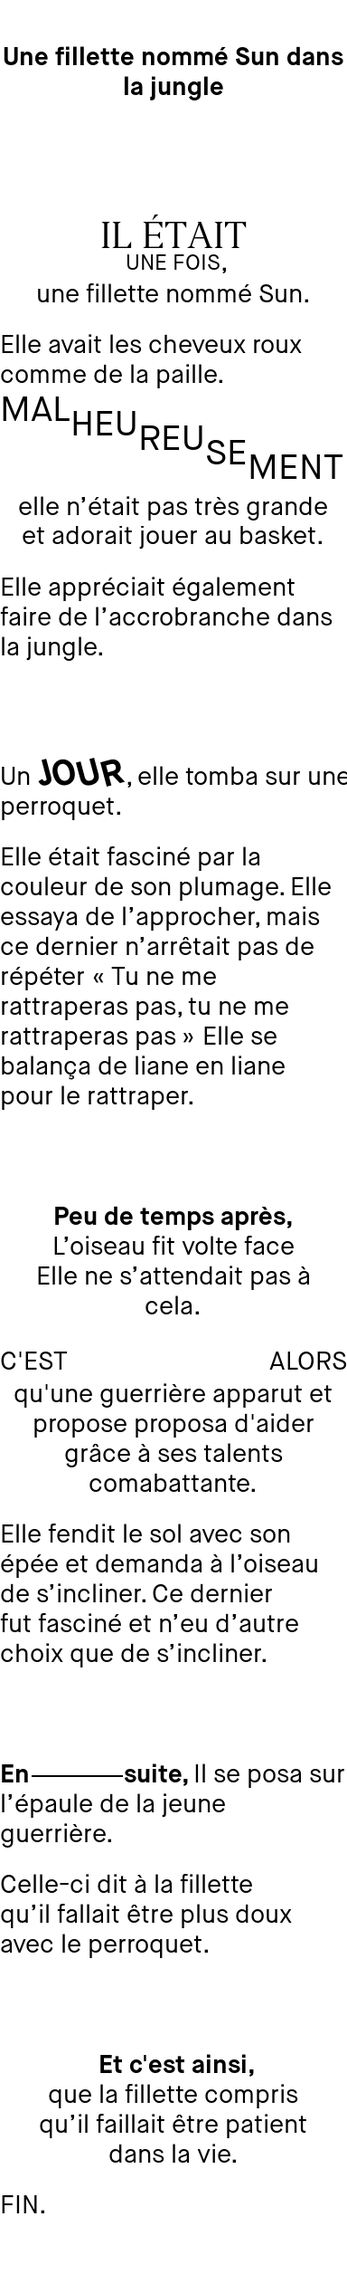
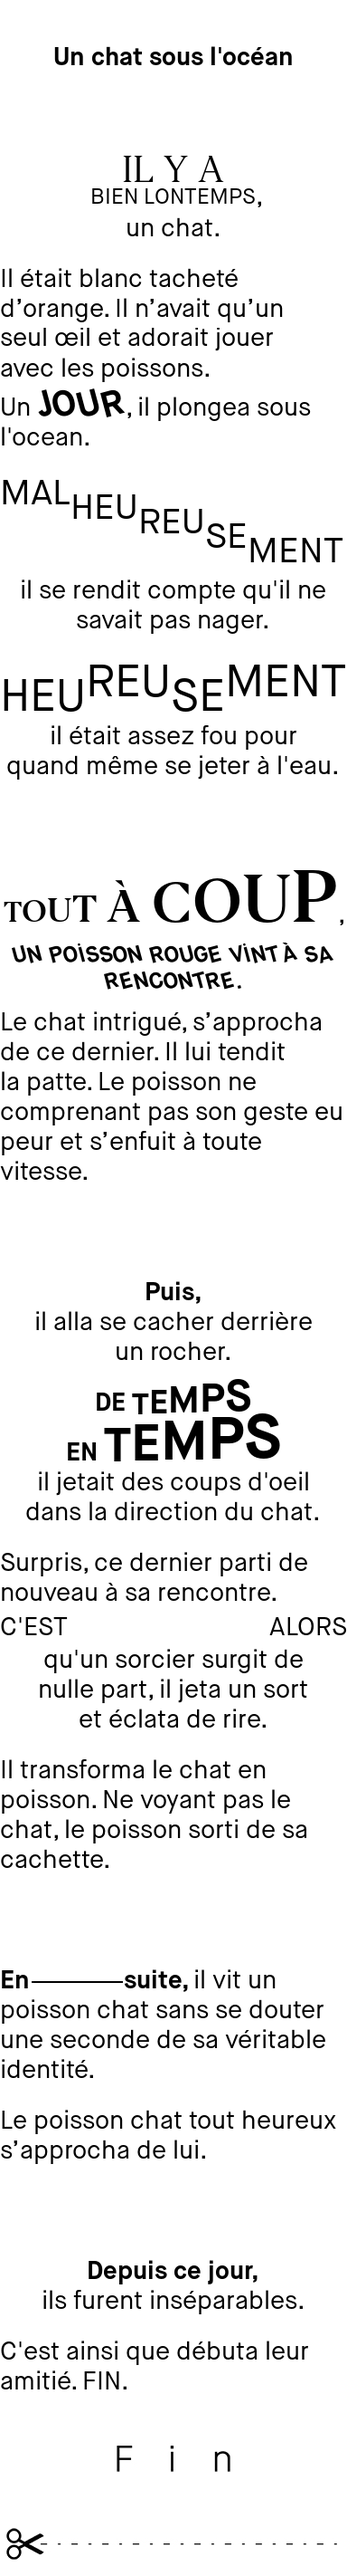
feat(effects) : add effect 'Il y a bien longtemps' and add img for end and cut

diff --git a/webserver.py b/webserver.py
@@ -31,11 +31,15 @@ class Server(BaseHTTPRequestHandler):
 	length = int(self.headers['Content-Length'])
 	data = self.rfile.read(length) #retrieve a json string from the app
 	load_json = json.loads(data) # convert
-	
+	print load_json
 	
 	if load_json["action"] == "shutdown":
             os.system('sudo shutdown -h now')
-        else:
+            
+        elif load_json["action"] == "testConnection":
+            print "Receive"
+            
+        elif load_json["action"] == "print":
             story = load_json["text"]
             title = load_json["title"]
             quantity = load_json["quantity"]
@@ -61,15 +65,15 @@ class Server(BaseHTTPRequestHandler):
 		
 def run(server_class=HTTPServer, handler_class=Server):
     
-##        #local story design
-##        paper = storydesign.StoryDesign()
-##        filename = paper.filename
-##        fileformat = paper.fileformat
-##        title = "Un chat sous l'océan"
-##        story = "Il était une fois, un chat. Il était blanc tacheté d’orange. Il n’avait qu’un seul œil et adorait jouer avec les poissons. Un jour, il plongea sous l'ocean. Malheureusement, il se rendit compte qu'il ne savait pas nager. Heureusement, il était assez fou pour quand même se jeter à l'eau.@Tout à coup, un poisson rouge vint à sa rencontre. Le chat intrigué, s’approcha de ce dernier. Il lui tendit la patte. Le poisson ne comprenant pas son geste eu peur et s’enfuit à toute vitesse.@Puis, il alla se cacher derrière un rocher. De temps en temps, il jetait des coups d'oeil dans la direction du chat. Surpris, ce dernier parti de nouveau à sa rencontre. C'est alors qu'un sorcier surgit de nulle part, il jeta un sort et éclata de rire. Il transforma le chat en poisson. Ne voyant pas le chat, le poisson sorti de sa cachette.@Ensuite, il vit un poisson chat sans se douter une seconde de sa véritable identité. Le poisson chat tout heureux s’approcha de lui.@Depuis ce jour, ils furent inséparables. C'est ainsi que débuta leur amitié. FIN."    
-##        paper.text_in_img(unicode(title, 'UTF8'), unicode(story, 'UTF8'))
-##        #os.system('lpr ' + filename + fileformat + '')
-##        #print story
+        #local story design
+        paper = storydesign.StoryDesign()
+        filename = paper.filename
+        fileformat = paper.fileformat
+        title = "Un chat sous l'océan"
+        story = "Il y a bien longtemps, un chat. Il était blanc tacheté d’orange. Il n’avait qu’un seul œil et adorait jouer avec les poissons. Un jour, il plongea sous l'ocean. Malheureusement, il se rendit compte qu'il ne savait pas nager. Heureusement, il était assez fou pour quand même se jeter à l'eau.@Tout à coup, un poisson rouge vint à sa rencontre. Le chat intrigué, s’approcha de ce dernier. Il lui tendit la patte. Le poisson ne comprenant pas son geste eu peur et s’enfuit à toute vitesse.@Puis, il alla se cacher derrière un rocher. De temps en temps, il jetait des coups d'oeil dans la direction du chat. Surpris, ce dernier parti de nouveau à sa rencontre. C'est alors qu'un sorcier surgit de nulle part, il jeta un sort et éclata de rire. Il transforma le chat en poisson. Ne voyant pas le chat, le poisson sorti de sa cachette.@Ensuite, il vit un poisson chat sans se douter une seconde de sa véritable identité. Le poisson chat tout heureux s’approcha de lui.@Depuis ce jour, ils furent inséparables. C'est ainsi que débuta leur amitié. FIN."    
+        paper.text_in_img(unicode(title, 'UTF8'), unicode(story, 'UTF8'))
+        #os.system('lpr ' + filename + fileformat + '')
+        print story
         
 	host = commands.getoutput('hostname -I') #raspberry IP : depending the network
 	port = 8080

diff --git a/storydesign.py b/storydesign.py
@@ -14,6 +14,7 @@ if sys.version[0] == '2':
 class StoryDesign():
     
     def __init__(self):
+         self.end_random = ""
          self.text = ""
          self.filename = "assets/texts/story"
          self.fileformat = ".png"
@@ -94,7 +95,7 @@ class StoryDesign():
             context.text((center_left,top), title_line, fill=self.text_color, font=text_maison_neue_bold)
             top += spacing
         top += title_margin_bottom #space before part
-            
+        top_end = 0
 	
 	for index, story_part in enumerate(story_parts):
 	    story_lines = textwrap.wrap(story_part, width=28)
@@ -124,6 +125,11 @@ class StoryDesign():
 		    elif onceupon_effect == 2:
 			height = effects.mirror_font(self.width, start_sentence, editor_regular, self.font_size + 5, spacing -5, self.text_color, top, context)            
 		    top += height
+		    
+		elif start_sentence == "Il y a bien longtemps":
+                    height = effects.two_fonts(self.width, start_sentence, editor_regular, self.font_size + 10, maison_neue_book, self.font_size - 4, spacing + 10, self.text_color, top, context)
+                    top += height
+                    
 		    
 		elif start_sentence == "Un jour" or start_sentence == 'Un matin':
 		    effects.word_in_sentence(self.width, start_sentence, maison_neue_book, self.font_size, maison_neue_rotate, self.font_size + 25, self.text_color, top, context)
@@ -166,7 +172,6 @@ class StoryDesign():
                     effects.increase_decrease(self.width, start_sentence, maison_neue_bold, self.font_size, spacing, self.text_color, top, 2, center_left_two, context)
 
                     top += height
-                    
 ##                    elif start_sentence == "Puis":
 ##                        # create fonction to load img
 ##                        img_height = effects.add_image("assets/img/mountains.jpg", True, top, img)
@@ -224,8 +229,20 @@ class StoryDesign():
 		    line_width, line_height = text_maison_neue_book.getsize(rest_story_line) # get text width
 		    context.multiline_text((0,top), rest_story_line, fill=self.text_color, font=text_maison_neue_book) # draw text
 		    top += spacing
-                    
+		    
+            top_end = self.get_top_value(top) # get top value   
             top += after_part
+
+        # add end
+        self.end_random = randint(1,3)
+        print "VAR END"
+        print self.end_random
+        img_end_height = effects.add_image("assets/img/fin0"+ str(self.end_random) +".jpg", True, top_end, img)
+        top_end += img_end_height
+
+        # cut
+        img_cut_height = effects.add_image("assets/img/cut.jpg", True, top_end, img)
+
         
         del context # destroy drawing context
         img.save(self.filename + self.fileformat, "PNG")
@@ -256,4 +273,9 @@ class StoryDesign():
             ordered_words.append(custom_word[1])
 
         return ordered_words
+    
+    
+    # get top value in a loop
+    def get_top_value (self, top):
+        return top
      

diff --git a/effects.py b/effects.py
@@ -97,6 +97,15 @@ def get_img_height(custom_words, title, story_parts, width, onceupon_effect, top
             nb_lines += len(rest_story_lines)
         nb_lines += 1
         nb_parts += 1
+        
+    # add end
+    #print storydesign.end_random
+    img_end_height = add_image("assets/img/fin01.jpg", False)
+    images_height += img_end_height
+    
+    # cut
+    img_cut_height = add_image("assets/img/cut.jpg", False)
+    images_height += img_cut_height
 
     height = top + before + title_margin_bottom + nb_lines * spacing + nb_parts * after_part + images_height + font_effects_height + bottom - nb_subparts * (spacing - 5) - after_part
     return height
@@ -164,15 +173,19 @@ def two_fonts(width, start_sentence, first_font, first_font_size, second_font, s
     first_text_font = ImageFont.truetype(first_font, first_font_size, encoding="unic")
     second_text_font = ImageFont.truetype(second_font, second_font_size, encoding="unic")
     
-    words = start_sentence.split(" ", 2)
-    part_one = (words[0] + ' ' + words[1]).upper()
+    if start_sentence == "Il était une fois":
+        words = start_sentence.split(" ", 2)
+        part_one = (words[0] + ' ' + words[1]).upper() #manage latin caracter "é"
+    elif start_sentence == "Il y a bien longtemps":
+        words = ["Il y a", "bien lontemps"]
+        part_one = words[0].upper()
     part_one_width, part_one_height = first_text_font.getsize(part_one)
     first_center_left = (width - part_one_width) / 2
     if context : context.text((first_center_left,effect_top), part_one, fill=text_color, font=first_text_font)
     effect_top += spacing
     height += spacing
     
-    part_two = words[2].upper()
+    part_two = words[1].upper()
     part_two_width, part_two_height = second_text_font.getsize(part_two)
     second_center_left = (width - part_two_width) / 2
     if context : context.text((second_center_left,effect_top), part_two, fill=text_color, font=second_text_font)
